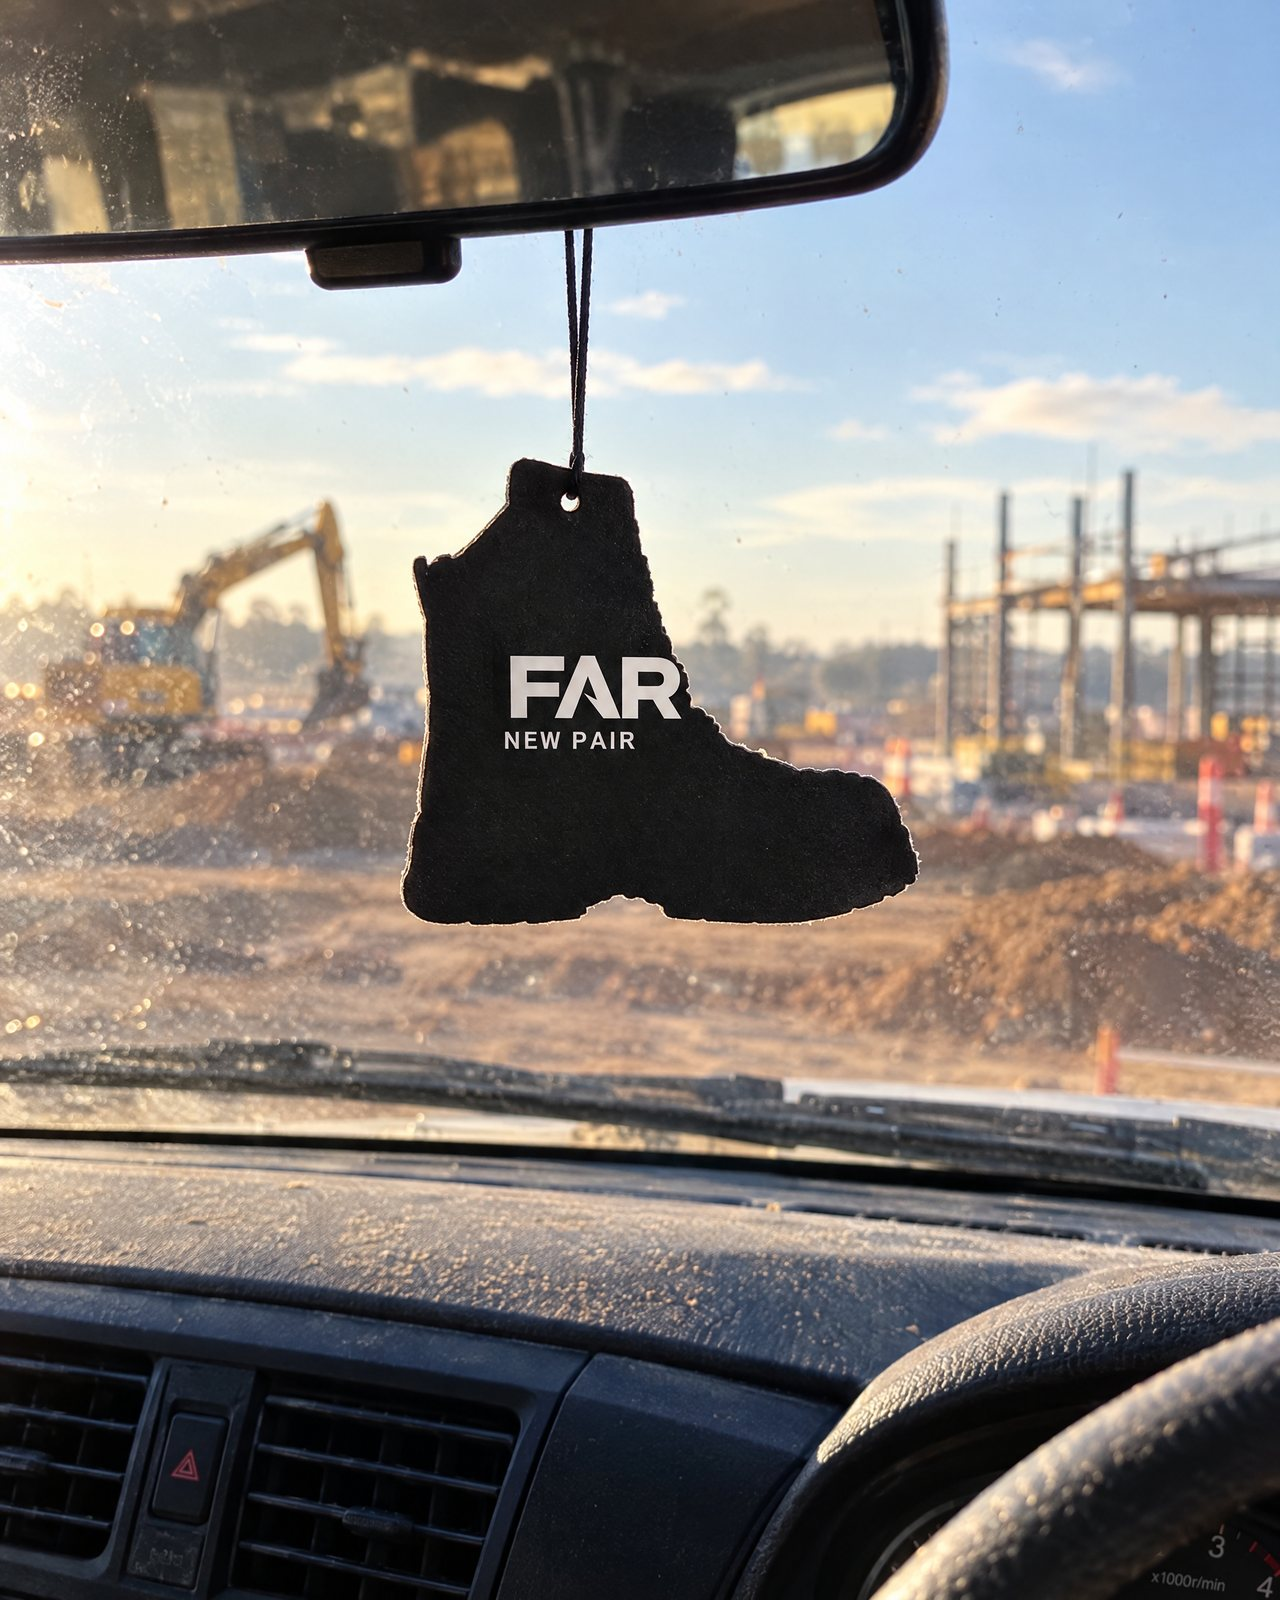
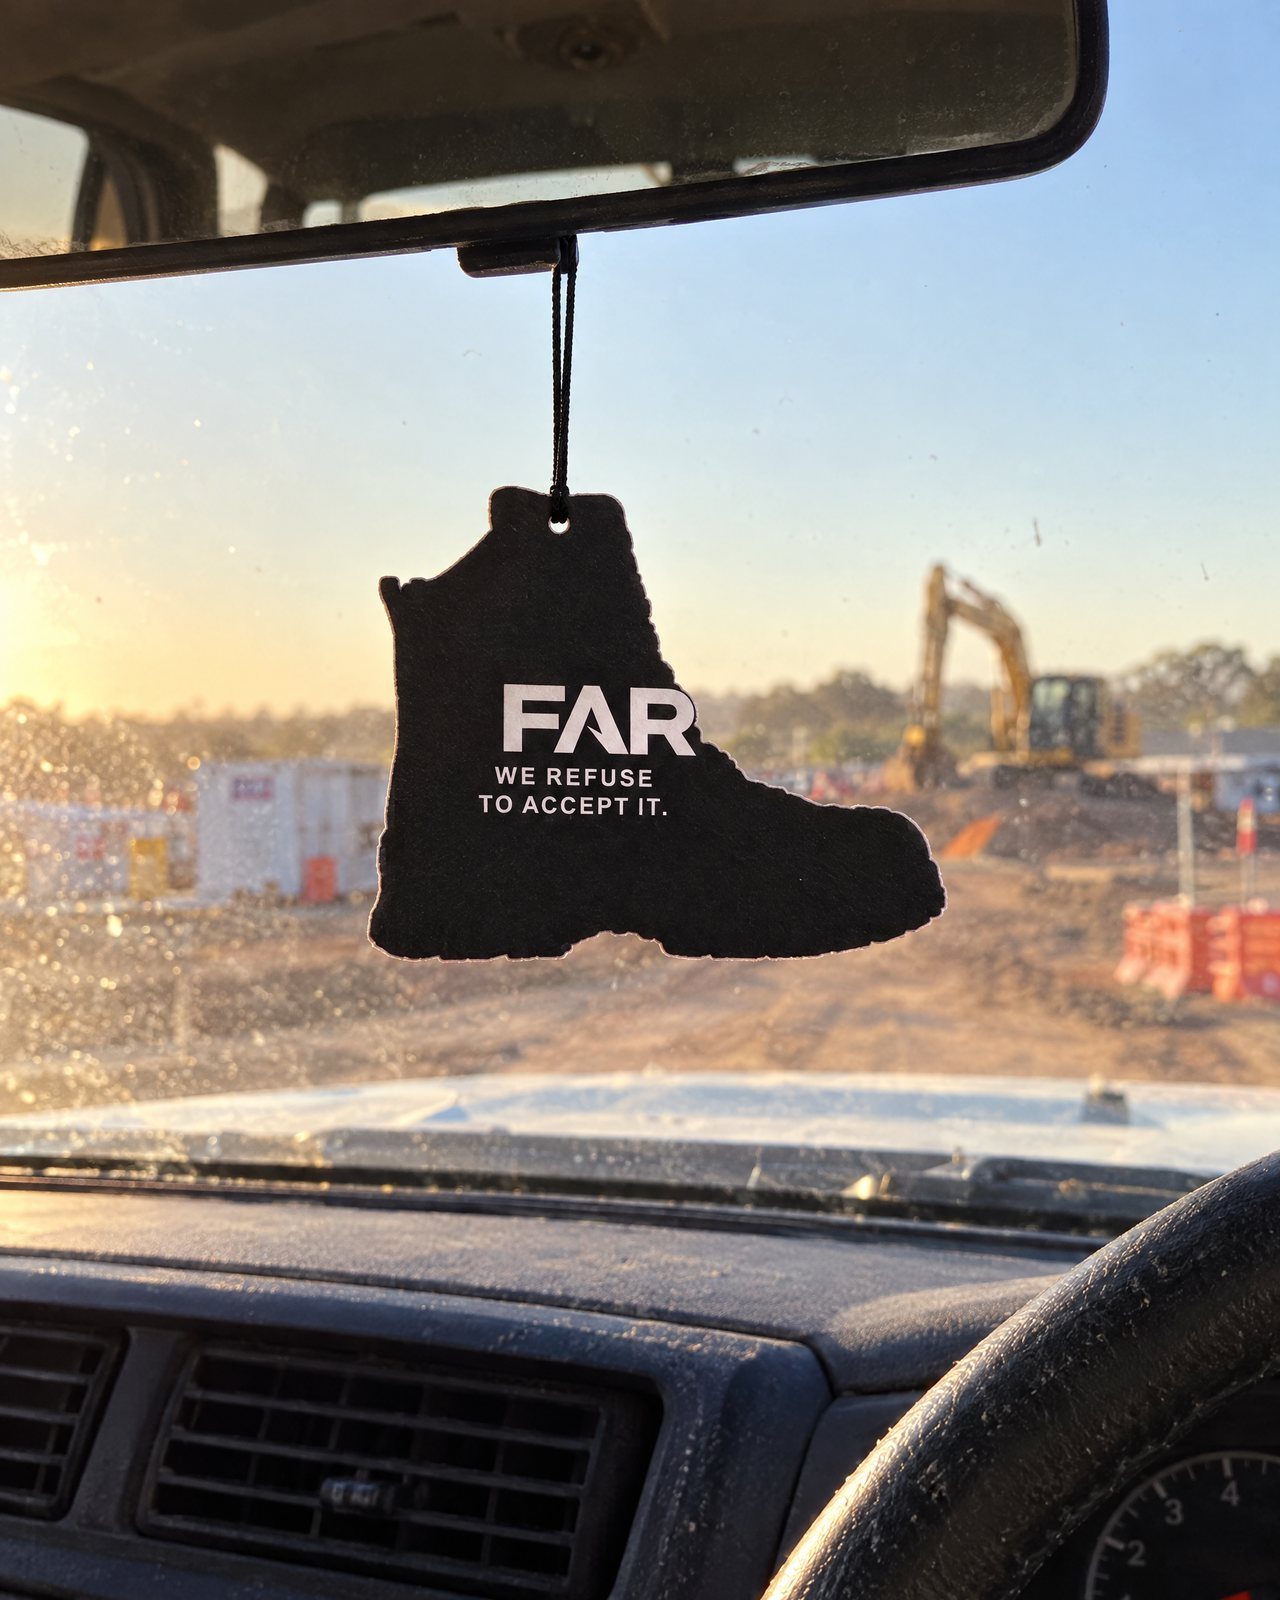
Meeting pre-read v2: socials split, rebuilt job lists, solo scripts page, tagline fresheners (S1282)

diff --git a/far-founders-meet-oct-n4x8.html b/far-founders-meet-oct-n4x8.html
@@ -103,15 +103,15 @@
 <p><b>First 100 only:</b> the slides (if they make it, see call 2), a handwritten note, and the numbered tag on the boot ("Boot No. __ of 500").</p>
 <p><b>Ideas on the table, not decided:</b></p>
 <ul>
-<li><b>A FAR car air freshener</b> (Fil's idea). Three shapes below. No supplier or price yet.</li>
+<li><b>A FAR car air freshener</b> (Fil's idea). Three shapes below, each with the tagline or with the logo only. One more option: logo on the front, tagline on the back, since it spins. No supplier or price yet.</li>
 <li><b>A TIACS card.</b> Who they are and why we back them, plus a small wallet card with their number. TIACS said the cards are fine on the phone. We're waiting on it in writing.</li>
 <li><b>A wear-week challenge card.</b> Wear them every shift for a week, post the verdict.</li>
 <li>Your three ideas.</li>
 </ul>
 <img src="meet/fresheners.jpg" alt="Three FAR air freshener concepts: boot shape, A shape, tag">
-<p class="cap">Air freshener concepts, built from our own logo and the real boot outline. The names on them (New Pair, Smoko, Knock-Off) are ideas for scent names, nothing's locked.</p>
+<p class="cap">Air freshener concepts, built from our own logo and the real boot outline. Top row with the tagline, bottom row logo only.</p>
 <img src="meet/freshener_ute.jpg" alt="AI mockup of the boot-shaped air freshener hanging in a ute">
-<p class="cap">AI mockup of the boot one hanging in a ute, so we can picture it. Not a real product yet.</p>
+<p class="cap">AI mockup of the boot one (with the tagline) hanging in a ute, so we can picture it. Not a real product yet.</p>
 <img src="meet/qr_card.jpg" alt="The in-box QR card, front and back">
 <p class="cap">The QR feedback card. The words are already locked. The QR takes them to a 30-second "first knock-off in FARs, how'd they go?" page we still have to build.</p>
 <div class="ask"><b>What we need from you</b><br>Vote on the lid and story. Bring three box ideas. Decide in the room: new photo or the website one, and what else goes in.</div>
@@ -145,12 +145,17 @@
 <div class="card">
 <p>All four of us are logged into FAR's Instagram. Only Fil is on TikTok, and he's sorting the setting so the rest of us can get in. What isn't getting done:</p>
 <ul>
-<li>Replies to comments. 19 have been waiting since 16 September. The replies are already written on the dashboard, you just tap send.</li>
-<li>Commenting on other people's pages, other tradie creators' reels. That's how a page our size grows.</li>
-<li>A first message to every new follower.</li>
-<li>Story reshares of our posts.</li>
+<li><b>Replies to comments.</b> 19 have been waiting since 16 September. The dashboard writes each reply in the voice of whoever is in the reel, so it's on you to tap send.</li>
+<li><b>Commenting on other people's posts</b> from FAR's account, on whatever comes up in FAR's feed. We already follow plenty of Aussie tradies. That's how a page our size grows.</li>
+<li><b>A first message to every new follower.</b> Instagram doesn't let a business auto-message someone who just followed. So this one stays by hand, and that's also why it works: a real person wrote it. Sign it as yourself, not as Fil.</li>
+<li><b>Story reshares</b> of our posts.</li>
 </ul>
-<div class="ask"><b>What we need from you</b><br>Each of these gets one name and a time of day. The proposal is in the jobs list below.</div>
+<div class="rec"><b>Proposal</b><br>
+Replies: whoever is in the reel replies within 24 hours.<br>
+Commenting on other posts: the tradies, 10 minutes a day each.<br>
+First messages and reshares: Con.<br>
+Posting to TikTok and YouTube Shorts: the brain does it. We're testing a tool that takes each Instagram reel and posts it to both, so nobody has to re-export anything.</div>
+<div class="ask"><b>What we need from you</b><br>Agree or change who does what.</div>
 </div>
 
 <h2>Call 7: the founder paperwork</h2>
@@ -193,17 +198,21 @@
 </div>
 
 <h2>Jobs: who owns what (proposal, we lock it in the room)</h2>
-<p class="dim">Each one has a "done when" so there's no arguing about whether it's done. Dates are proposals. Fil is running content for now: editing, posting and the final call. These are the jobs only you can do, plus the ones that keep the page alive.</p>
+<p class="dim">The rule for this list: if the brain can do it, the brain does it. Your jobs are the things only you can do: your face on camera, your mates, your trade, your feed. Each job has a "done when" so there's no arguing about whether it's done. Dates are proposals.</p>
+<p class="dim">Finished edits go in the group chat. Anyone can give feedback. If nobody objects within a day, it goes up.</p>
+<a class="btn" href="far-solo-videos-j6t3.html">Grant and Lionel: your solo video scripts</a>
 
 <div class="card">
 <h3>Grant</h3>
 <ul>
-<li>Film your 3 solo videos at home (Knock-Off Test, The Insole, one STDS). <span class="dim">Done when 3-4 takes of each are in the Drive raw folder. By Sun 12 Oct.</span></li>
+<li>Film your 3 solo videos at home: Knock-Off Test, The Insole, one straight question. <span class="dim">Done when 3-4 takes of each are in the Drive raw folder. By Sun 12 Oct.</span></li>
 <li>Micromanager refilm with Lionel. <span class="dim">Done when it's filmed on a private location we've cleared. By Sun 19 Oct.</span></li>
+<li>10 minutes a day commenting from FAR's account on posts in FAR's feed. <span class="dim">Daily.</span></li>
+<li>Reply to the comments on reels you're in. <span class="dim">Within 24 hours of a post, from the Comms tab.</span></li>
 <li>Ask your crew what they hate about their boots. <span class="dim">Done when 5 answers in their own words, with their trade, are in the group chat. By Fri 10 Oct.</span></li>
 <li>10 names for the free pairs: 5 foremen, 5 creators still on the tools. <span class="dim">Done when they're on the Seeding tab with handle, trade and size. Nobody gets contacted yet. By Sun 12 Oct.</span></li>
-<li>Collect 3-5 dead pairs of boots from your crew. <span class="dim">Done when each pair is tagged: whose, how long worn, what failed. By Fri 24 Oct.</span></li>
-<li>Filming days: kit, charging, and the night-before text. <span class="dim">Every filming day.</span></li>
+<li>Collect 3-5 dead pairs from your crew. <span class="dim">Done when each pair is tagged: whose, how long worn, what failed. By Fri 24 Oct.</span></li>
+<li>Filming days: kit, charging, and the night-before text.</li>
 <li>Dave's contract: tell us where it's at.</li>
 </ul>
 </div>
@@ -211,11 +220,10 @@
 <div class="card">
 <h3>Lionel</h3>
 <ul>
-<li>Edit the 13 Sep pieces still sitting there: Boot Benefits, Taking Care of FAR Boots, The Honeymoon Phase. <span class="dim">Done when each is exported and with Fil for the final call. One a week.</span></li>
-<li>Reply to comments within 3 hours of every post. <span class="dim">Each posting night, from the Comms tab.</span></li>
-<li>Film your 3 solo videos at home (Shed Pair, Bad Advice, one STDS). <span class="dim">By Sun 12 Oct.</span></li>
-<li>TikTok and YouTube Shorts exports of each post. <span class="dim">Weekly, once TikTok access is sorted.</span></li>
-<li>Find the real boot complaints online: ProductReview, Reddit, Whirlpool. <span class="dim">Done when the latest 1 and 2 star reviews are copied word for word with links into the group chat. Every second week.</span></li>
+<li>Edit the 13 Sep pieces still sitting there: Boot Benefits, Taking Care of FAR Boots, The Honeymoon Phase. <span class="dim">Done when each is finished and in the group chat. One a week.</span></li>
+<li>Film your 3 solo videos at home: Shed Pair, Bad Advice, one straight question. <span class="dim">By Sun 12 Oct.</span></li>
+<li>10 minutes a day commenting from FAR's account on posts in FAR's feed. <span class="dim">Daily.</span></li>
+<li>Reply to the comments on reels you're in. <span class="dim">Within 24 hours of a post.</span></li>
 <li>A one-page check sheet for when the cartons land: sole bond, heel, insole, size, count. <span class="dim">By Fri 24 Oct.</span></li>
 <li>Filming days: camera.</li>
 </ul>
@@ -224,13 +232,14 @@
 <div class="card">
 <h3>Con</h3>
 <ul>
-<li>30 minutes a day on other people's pages: real comments on tradie creators' reels, never selling. <span class="dim">Daily.</span></li>
-<li>Follow 20 Aussie tradie creators and comment on each one's posts. <span class="dim">Done when the 20 are on a list and each has 3 comments from FAR. By Sun 12 Oct, then keep it going.</span></li>
-<li>A first message to every new follower: "What trade are you in?" <span class="dim">Daily.</span></li>
+<li>A first message to every new follower, signed as you. <span class="dim">Daily.</span></li>
 <li>Reshare every FAR post to your story, 48 hours or more after it goes up. <span class="dim">Every post.</span></li>
-<li>3 comedy ideas a week on the Ideas board. <span class="dim">Done when each one says what really happened and who was there. Weekly.</span></li>
+<li>3 comedy ideas a week on the Ideas board. <span class="dim">Done when each says what really happened and who was there. Weekly.</span></li>
+<li>The new bloke in our group comedy: the apprentice, the one who gets stitched up. <span class="dim">Every filming day.</span></li>
 <li>Filming days: the clip log, and copy the footage to Drive the same night.</li>
-<li>Sign up to our website on your phone like a stranger would. <span class="dim">Done when every page and email is screenshotted and anything broken is in the group chat. One-off, this week.</span></li>
+<li>Get two quotes each for the air freshener and the stickers. <span class="dim">Done when supplier, price per 100 and 500, and lead time are in the group chat. By Fri 17 Oct.</span></li>
+<li>Reply to the comments on reels you're in. <span class="dim">Within 24 hours of a post.</span></li>
+<li>Sign up to our website on your phone like a stranger would. <span class="dim">Done when every page and email is screenshotted and anything broken is in the group chat. This week.</span></li>
 </ul>
 </div>
 
@@ -242,6 +251,15 @@
 <li>Three box ideas each. <span class="dim">At the meeting.</span></li>
 <li>Answer every poll within 48 hours.</li>
 <li>The photo for the box, if we're taking a new one. <span class="dim">By about 10 Oct.</span></li>
+</ul>
+</div>
+
+<div class="card">
+<h3>The brain does these</h3>
+<ul>
+<li>Writes a reply to every comment on our posts, in the voice of whoever is in the reel. You just tap send.</li>
+<li>Pulls the real boot complaints off ProductReview, Reddit and Whirlpool every week and drops them on the dashboard. <span class="dim">Being set up.</span></li>
+<li>Posts each Instagram reel to TikTok and YouTube Shorts. <span class="dim">Being tested.</span></li>
 </ul>
 </div>
 

diff --git a/far-solo-videos-j6t3.html b/far-solo-videos-j6t3.html
@@ -1,0 +1,141 @@
+<!DOCTYPE html>
+<html lang="en">
+<head>
+<meta charset="utf-8">
+<meta name="viewport" content="width=device-width, initial-scale=1">
+<meta name="robots" content="noindex, nofollow">
+<title>Your solo videos</title>
+<style>
+  :root { --bg:#111; --card:#1a1a1a; --text:#f5f5f5; --dim:#9a9a9a; --line:#2e2e2e; }
+  * { margin:0; padding:0; box-sizing:border-box; }
+  body { background:var(--bg); color:var(--text); font-family:"Segoe UI",system-ui,-apple-system,sans-serif; line-height:1.55; padding:24px 16px 80px; max-width:640px; margin:0 auto; }
+  h1 { font-size:1.7rem; letter-spacing:.5px; text-transform:uppercase; margin-bottom:4px; }
+  .sub { color:var(--dim); margin-bottom:28px; font-size:.95rem; }
+  h2 { font-size:1.05rem; text-transform:uppercase; letter-spacing:1px; margin:34px 0 10px; border-bottom:1px solid var(--line); padding-bottom:6px; }
+  p { margin-bottom:10px; }
+  .card { background:var(--card); border:1px solid var(--line); border-radius:10px; padding:14px 16px; margin-bottom:12px; }
+  .card h3 { font-size:1rem; text-transform:uppercase; letter-spacing:.5px; margin-bottom:8px; }
+  ol, ul { margin:0 0 10px 20px; }
+  li { margin-bottom:5px; }
+  .dim { color:var(--dim); }
+  .line { border-left:3px solid var(--text); padding:6px 12px; margin:6px 0 10px; background:#161616; }
+  .k { text-transform:uppercase; letter-spacing:.5px; font-size:.75rem; color:var(--dim); display:block; }
+  .foot { margin-top:40px; color:var(--dim); font-size:.85rem; }
+</style>
+</head>
+<body>
+
+<h1>Your solo videos</h1>
+<p class="sub">Three each for Grant and Lionel, filmed at home. These are the same cards that are on the dashboard Ideas board. They've been on hold since 14 September while Fil read them, and he gives the go at the meeting. They're a guide, not a script: change any line, beat or ending so it's how you'd actually say it.</p>
+
+<h2>The one rule</h2>
+<div class="card">
+<p><b>The first shot is the video.</b> Film it on its own, three or four times, harder each time. If frame 1 wouldn't make YOU stop with the sound off, don't film the rest yet.</p>
+<ul>
+<li>Phone propped, not held. Hi-vis in the first shot.</li>
+<li>Real sound first, no music.</li>
+<li>No "follow us", no brand named, no other brand's logo in shot (tape it).</li>
+<li>30 to 50 seconds. Longer only if it earns it.</li>
+<li>When it's done: put the file on the business Drive under 2 Social media &gt; 02 Filming days - Raw, in a folder with the date and your name. Then tap "filmed" on the card.</li>
+</ul>
+</div>
+
+<h2>Grant</h2>
+
+<div class="card">
+<h3>1. Knock-off test</h3>
+<p class="dim">You in the FAR boots, filmed at knock-off after a real day.</p>
+<span class="k">First shot</span><p>The hop off the tailgate, mid-air. Film it first, three or four times.</p>
+<span class="k">Text on screen</span><div class="line">10 HOURS ON CONCRETE. WATCH.</div>
+<span class="k">First thing you say</span><div class="line">"Ten hours on concrete. Watch this."</div>
+<span class="k">Beats</span>
+<ol>
+<li>The hop or jog off the tailgate.</li>
+<li>Boots off, sock off, show your foot: no sock ring dug into it.</li>
+<li>Say what's true after your real day: what hurt and what didn't, one sentence. If something hurt, say so.</li>
+<li>Drop the boots on the tray, thud, walk off.</li>
+</ol>
+<p class="dim">Flat, honest, tired. It's you telling it straight, not an ad. Don't say "no break-in", "comfiest" or anything about water. We can't back those yet.</p>
+</div>
+
+<div class="card">
+<h3>2. The insole</h3>
+<p class="dim">Any dead boot from your shed. Your own idea from the board, script Fil already OK'd.</p>
+<span class="k">First shot</span><p>The insole torn in half with your bare hands, one rip. Film the rip first, four times.</p>
+<span class="k">Text on screen</span><div class="line">YOU'VE BEEN LIED TO ABOUT YOUR BOOTS</div>
+<span class="k">First thing you say</span><div class="line">"You've been lied to about what's inside a 250 dollar boot."</div>
+<span class="k">Beats</span>
+<ol>
+<li>The rip.</li>
+<li>Hold up the halves and say it the smoko way. They know the one in there is rubbish. Why would they put a good one in, when you're going to go sort it yourself for another fifty bucks?</li>
+<li>If you've got the insole you bought to replace it, hold them side by side.</li>
+<li>Both halves in the bin.</li>
+</ol>
+<p class="dim">Your opinion, said flat, not a rant. No brand named or showing (tape the tag).</p>
+</div>
+
+<div class="card">
+<h3>3. One straight question (STDS)</h3>
+<p class="dim">Ute cabin, shoulders up, phone propped, no music. Pick ONE question from the list at the bottom. Open on your first line of the answer, never on the question. Leave the silences in. If it gets too much, shake your head and stop. Never a "follow us" on these.</p>
+</div>
+
+<h2>Lionel</h2>
+
+<div class="card">
+<h3>1. Shed pair</h3>
+<p class="dim">You need two pairs: one you wore to death, and one old pair that sat in the shed and never got worn.</p>
+<span class="k">First shot</span><p>Both boots held up together. Film that first.</p>
+<span class="k">Text on screen</span><div class="line">ONE DID 900 SHIFTS. ONE DID NONE. <span class="dim">(use your real number)</span></div>
+<span class="k">First thing you say</span><div class="line">"One of these did 900 shifts. The other did zero. Guess which one's dead."</div>
+<span class="k">Beats</span>
+<ol>
+<li>Both boots up.</li>
+<li>Bend the WORN one: still fine.</li>
+<li>Bend the NEVER-WORN one: it cracks, and the sole crumbles.</li>
+<li>"It's called hydrolysis." Boots that sit in the shed die anyway.</li>
+<li>Put them down, done.</li>
+</ol>
+<p class="dim">Let the crack do the work, don't explain it. Nothing about the FAR sole. That one waits on paperwork.</p>
+</div>
+
+<div class="card">
+<h3>2. Bad advice</h3>
+<span class="k">First shot</span><p>You walking AT the camera, already talking.</p>
+<span class="k">Text on screen</span><div class="line">YOU'VE PROBABLY GIVEN THIS ADVICE</div>
+<span class="k">First thing you say</span><div class="line">"The worst advice in construction gets handed out every single day. You've probably said it."</div>
+<span class="k">Beats</span>
+<ol>
+<li>The advice, one line each, the way it's said on site: they'll wear in. Harden up. It's just the job. She'll be right.</li>
+<li>What each one cost you or a mate: the knee, the heel, the weeks off. Your real ones.</li>
+<li>The turn: it's not the bloke, it's the boot.</li>
+<li>Last line: "Next time you hear it, look down."</li>
+</ol>
+<p class="dim">Deadpan. No lecture, you're one of them. Nothing medical you can't back with your own body.</p>
+</div>
+
+<div class="card">
+<h3>3. One straight question (STDS)</h3>
+<p class="dim">Same as Grant's: ute cabin, one question from the list below, open on your answer, leave the silences in.</p>
+</div>
+
+<h2>The straight questions (pick one)</h2>
+<div class="card">
+<ol>
+<li>What's the injury you never told your missus about?</li>
+<li>What's the closest you've come to not making it home from a job?</li>
+<li>What's the one job you still think about at 2am?</li>
+<li>How many mates have you lost to this industry, and what do you tell yourself about it?</li>
+<li>What did the doctor say that you decided to ignore?</li>
+<li>What's the thing your body does now that you hide from the young blokes?</li>
+<li>When did you last cry about work, and where were you?</li>
+<li>What have you never said to the bloke who taught you?</li>
+<li>What do you say when someone asks how work was, and what's the real answer?</li>
+<li>What's the closest you've come to walking off site for good?</li>
+</ol>
+<p class="dim">Or your own. Only say what you've actually lived.</p>
+</div>
+
+<p class="foot">Unlisted page, but anyone with the link can open it. Don't forward it. The same cards are on the dashboard Ideas board.</p>
+
+</body>
+</html>
